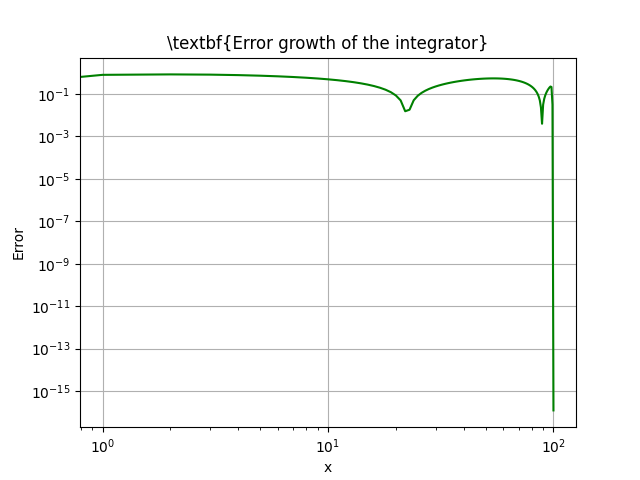
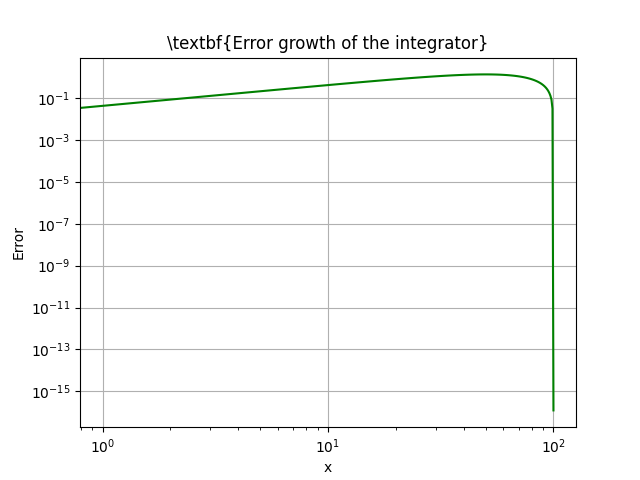
added other algorithm variations

diff --git a/Test2.py b/Test2.py
@@ -3,7 +3,6 @@ import matplotlib.pyplot as plt
 import matplotlib
 import pandas as pd
 
-#matplotlib.rcParams['text.usetex'] = True
 
 '''I use the piecewise linear Rayleigh-Ritz method to solve a second order  ordinary differential equation with a nonzero RHS
 The d.e is of the form :  - d/dx(  p(x)dy/dx) + q(x)y = f(x).
@@ -13,36 +12,32 @@ The integration is performed on the interval 0<=x<=1'''
 def rhs(x):
     '''This computes the rhs of the d.e.
     INPUT: the variable x'''
-    #return 2 * (np.pi ** 2) * np.sin(np.pi * x)
-    return 1
+    return - (3*x + np.cos(x**2))
 
 
 N = 10
 x = np.linspace(0, 1, N + 1)
 
-#h = []  # intialize space step
-#h0 = x[1] - x[0]
-#h.append(h0)
-#for i in range(N - 1):
-#    h.append(x[i + 1] - x[i])
-#hN = x[N] - x[N - 1]
-#h.append(hN)
-
-h = [0.1] * 11
-
+h = []  # intialize space step
+h0 = x[1] - x[0]
+h.append(h0)
+for i in range(N - 1):
+    h.append(x[i + 1] - x[i])
+hN = x[N] - x[N - 1]
+h.append(hN)
 
 def basis_function(x):
     '''Basis functions of the Rayleigh-Ritz method'''
 
     phi = np.zeros([N + 1, N + 1], dtype='float')  # initialize basis function
-    for j in range(N - 1):
+    for j in range(N):
         for idx in range(N):
             if (0 <= x[idx] <= x[j-1]):
                 phi[j, idx] = 0
             elif (x[j-1] < x[idx] <= x[j]):
                 phi[j, idx] = (x[idx] - x[j-1]) / h[j-1]
-            elif (x[j] < x[idx] <= x[j + 1]):
-                phi[j, idx] = -(x[idx] - (x[j+1]) / h[j])
+            elif (x[j] < x[idx] <= x[j+1]):
+                phi[j, idx] = ((x[j+1] - x[idx]) / h[j])
             elif (x[j+1] < x[idx] <= 1):
                 phi[j, idx] = 0
     return phi
@@ -58,8 +53,7 @@ def p(x):
 
 def q(x):
     '''Defining the coefficient q in the d.e.'''
-    #return np.pi ** 2
-    return 3*x + np.cos(x**2)
+    return 0
 
 
 # initialize vectors for computing integrals
@@ -71,29 +65,29 @@ Q5 = []
 Q6 = []
 # approximating the 6 integrals
 for i in range(N - 1):
-    q1 = (h[i] / 12) * (q(x[i]) + q(x[i + 1]))
+    q1 = (h[i] / 12) * (q(x[i]) + q(x[i+1]))
     Q1.append(q1)
-    q2 = (h[i - 1] / 12) * (3 * q(x[i]) + q(x[i - 1]))
+    q2 = (h[i-1] / 12) * (3 * q(x[i]) + q(x[i-1]))
     Q2.append(q2)
-    q3 = (h[i] / 12) * (3 * q(x[i]) + q(x[i + 1]))
+    q3 = (h[i] / 12) * (3 * q(x[i]) + q(x[i+1]))
     Q3.append(q3)
-    q4 = (1 / 2 * h[i-1]) * (p(x[i]) + p(x[i - 1]))
+    q4 = (1 / (2 * h[i-1])) * (p(x[i]) + p(x[i-1]))
     Q4.append(q4)
-    q5 = (h[i - 1] / 6) * (2 * rhs(x[i]) + rhs(x[i - 1]))
+    q5 = (h[i-1] / 6) * (2 * rhs(x[i]) + rhs(x[i-1]))
     Q5.append(q5)
-    q6 = (h[i] / 6) * (2 * rhs(x[i]) + rhs(x[i + 1]))
+    q6 = (h[i] / 6) * (2 * rhs(x[i]) + rhs(x[i+1]))
     Q6.append(q6)
 
 # now compute  Q1,n , Q2,n , Q3,n , Q4,n Q4,n+1, Q5n, Q6,n
 
-# q1n = (h[N]/12)*(p(x[N-1]) + q(x[N]))
-# Q1.append(q1n)
+q1n = (h[N]/12)*(q(x[N-1]) + q(x[N]))
+Q1.append(q1n)
 q2n = (h[N - 2] / 12) * (3 * q(x[N - 1]) + q(x[N - 2]))
 Q2.append(q2n)
 q3n = (h[N] / 12) * (3 * q(x[N - 1]) + q(x[N]))
 Q3.append(q3n)
-q4n_last = (h[N - 1] / 2) * (p(x[N]) + p(x[N - 1]))
-q4n_second_last = (h[N - 2] / 2) * (p(x[N - 1]) + p(x[N - 2]))
+q4n_last = (1 / (2 * h[N - 1]) ) * (p(x[N]) + p(x[N - 1]))
+q4n_second_last = (1 / (2 * h[N - 2]) ) * (p(x[N - 1]) + p(x[N - 2]))
 Q4.append(q4n_second_last)
 Q4.append(q4n_last)
 q5n = (h[N - 1] / 6) * (2 * rhs(x[N - 1]) + rhs(x[N - 2]))
@@ -109,8 +103,8 @@ for i in range(N - 1):
     alpha[i] = Q4[i] + Q4[i + 1] + Q2[i] + Q3[i]
     beta[i] = Q1[i] - Q4[i + 1]
     b[i] = Q5[i] + Q6[i]
-alpha[N] = Q4[N - 1] + Q4[N] + Q2[N - 1] + Q3[N - 1]
-b[N] = Q5[N - 1] + Q6[N - 1]
+alpha[N-1] = Q4[N - 1] + Q4[N] + Q2[N - 1] + Q3[N - 1]
+b[N-1] = Q5[N - 1] + Q6[N - 1]
 a[0] = alpha[0]
 
 # solve a symmetric tridiagonal linear system
@@ -119,12 +113,12 @@ z = np.zeros(N + 1, dtype='float')
 c = np.zeros(N + 1, dtype='float')  # the weights
 zeta[0] = beta[0] / alpha[0]
 z[0] = b[0] / a[0]
-for i in range(1, N - 1):
-    a[i] = alpha[i] - beta[i - 1] * zeta[i - 1]
+for i in range(1, N-1):
+    a[i] = alpha[i] - beta[i-1] * zeta[i-1]
     zeta[i] = beta[i] / a[i]
-    z[i] = (b[i] - beta[i - 1] * z[i - 1]) / a[i]
-a[N] = alpha[N] - beta[N - 1] * zeta[N - 1]
-z[N] = (b[N] - beta[N - 1] * z[N - 1]) / a[N]
+    z[i] = (b[i] - beta[i-1] * z[i-1]) / a[i]
+a[N-1] = alpha[N-1] - beta[N-2] * zeta[N-2]
+z[N-1] = (b[N-1] - beta[N-2] * z[N-2]) / a[N-1]
 
 # indices for the weights
 # indices must be reversed
@@ -141,9 +135,8 @@ u = basis_function(x)
 # plt.plot(u)
 # plt.show()
 
+# compute the error
 phi_new = np.dot(u, c)
-
-
 
 df = pd.DataFrame(c, phi_new)
 print(df)

diff --git a/TestOrig.py b/TestOrig.py
@@ -3,7 +3,6 @@ import matplotlib.pyplot as plt
 import matplotlib
 import pandas as pd
 
-#matplotlib.rcParams['text.usetex'] = True
 
 '''I use the piecewise linear Rayleigh-Ritz method to solve a second order  ordinary differential equation with a nonzero RHS
 The d.e is of the form :  - d/dx(  p(x)dy/dx) + q(x)y = f(x).
@@ -13,22 +12,19 @@ The integration is performed on the interval 0<=x<=1'''
 def rhs(x):
     '''This computes the rhs of the d.e.
     INPUT: the variable x'''
-    #return 2 * (np.pi ** 2) * np.sin(np.pi * x)
-    return 1
+    return 2 * (np.pi ** 2) * np.sin(np.pi * x)
 
 
-N = 10
+N = 100
 x = np.linspace(0, 1, N + 1)
 
-#h = []  # intialize space step
-#h0 = x[1] - x[0]
-#h.append(h0)
-#for i in range(N - 1):
-#    h.append(x[i + 1] - x[i])
-#hN = x[N] - x[N - 1]
-#h.append(hN)
-
-h = [0.1] * 11
+h = []  # intialize space step
+h0 = x[1] - x[0]
+h.append(h0)
+for i in range(N - 1):
+    h.append(x[i + 1] - x[i])
+hN = x[N] - x[N - 1]
+h.append(hN)
 
 
 def basis_function(x):
@@ -37,13 +33,13 @@ def basis_function(x):
     phi = np.zeros([N + 1, N + 1], dtype='float')  # initialize basis function
     for j in range(N - 1):
         for idx in range(N):
-            if (0 <= x[idx] <= x[j-1]):
+            if (0 <= x[idx] <= x[j - 1]):
                 phi[j, idx] = 0
-            elif (x[j-1] < x[idx] <= x[j]):
-                phi[j, idx] = (x[idx] - x[j-1]) / h[j-1]
+            elif (x[j - 1] < x[idx] <= x[j]):
+                phi[j, idx] = (x[idx] - x[j - 1]) / h[j - 1]
             elif (x[j] < x[idx] <= x[j + 1]):
-                phi[j, idx] = -(x[idx] - (x[j+1]) / h[j])
-            elif (x[j+1] < x[idx] <= 1):
+                phi[j, idx] = ((x[j + 1] - x[idx]) / h[j])
+            elif (x[j + 1] < x[idx] <= 1):
                 phi[j, idx] = 0
     return phi
 
@@ -58,8 +54,7 @@ def p(x):
 
 def q(x):
     '''Defining the coefficient q in the d.e.'''
-    #return np.pi ** 2
-    return 3*x + np.cos(x**2)
+    return np.pi ** 2
 
 
 # initialize vectors for computing integrals
@@ -71,13 +66,13 @@ Q5 = []
 Q6 = []
 # approximating the 6 integrals
 for i in range(N - 1):
-    q1 = (h[i] / 12) * (q(x[i]) + q(x[i + 1]))
+    q1 = (h[i] / 12) * (p(x[i]) + q(x[i + 1]))
     Q1.append(q1)
     q2 = (h[i - 1] / 12) * (3 * q(x[i]) + q(x[i - 1]))
     Q2.append(q2)
     q3 = (h[i] / 12) * (3 * q(x[i]) + q(x[i + 1]))
     Q3.append(q3)
-    q4 = (1 / 2 * h[i-1]) * (p(x[i]) + p(x[i - 1]))
+    q4 = (h[i - 1] / 2) * (p(x[i]) + p(x[i - 1]))
     Q4.append(q4)
     q5 = (h[i - 1] / 6) * (2 * rhs(x[i]) + rhs(x[i - 1]))
     Q5.append(q5)
@@ -141,19 +136,30 @@ u = basis_function(x)
 # plt.plot(u)
 # plt.show()
 
+# compute the error
+error = np.zeros(N + 1, dtype='float')
 phi_new = np.dot(u, c)
+for i in range(len(x)):
+    error[i] = (abs(phi_new[i] - np.sin(np.pi * x[i])))
 
-
+import pandas as pd
 
 df = pd.DataFrame(c, phi_new)
 print(df)
 
 # plotting
 plt.grid()
-plt.plot(x, phi_new, 'r')
-plt.legend(['Rayleigh-Ritz'])
+plt.plot(x, phi_new, x, np.sin(np.pi * x), 'r')
+plt.legend(['Rayleigh-Ritz', 'Exact Solution'])
 plt.xlabel(r'x')
 plt.ylabel(r'$\phi(x)$')
 plt.savefig('Results')
 plt.show()
 
+plt.grid()
+plt.loglog(np.linspace(0, N, N + 1), error, 'g')
+plt.title(r'\textbf{Error growth of the integrator}')
+plt.xlabel(r'x')
+plt.ylabel(r'Error')
+plt.savefig('Error')
+plt.show()

diff --git a/finiteElementMethod.py b/finiteElementMethod.py
@@ -28,8 +28,14 @@ def solve(inputA, inputC, n, x):
 
     for i in range(0, n+1, 1):
         for j in range(i, min(i+3,n+1), 1):
-            L = max(x[j-2],0);
-            U = min(x[j+2],1);
+            if (j-2 < 0):
+                L=0
+            else:
+                L = max(x[j-2],0);
+            if (j+2 > len(x)-1):
+                len(x)-1
+            else:
+                U = min(x[j+2],1);
 
             # ... вычисляем a[i][j]
             a[i][j] = simpson(func.dfi(n, 0.1, x[i], i)*func.dfi(n, 0.1, x[j], j) + func.fi(n, 0.1, x[i], i)*func.fi(n, 0.1, x[j], j), L, U, n)
@@ -41,8 +47,14 @@ def solve(inputA, inputC, n, x):
             for j in range(i+4, n+1, 1):
                 a[i][j] = 0;
 
-        L = max(x[i - 2], 0);
-        U = min(x[i + 2], 1);
+        if (i-2 < 0):
+            L=0
+        else:
+            L = max(x[i-2], 0);
+        if (i+2 > len(x)-1):
+            len(x)-1
+        else:
+            U = min(x[i+2], 1);
 
         # ... вычисляем b[i]
         b[i] = simpson(
